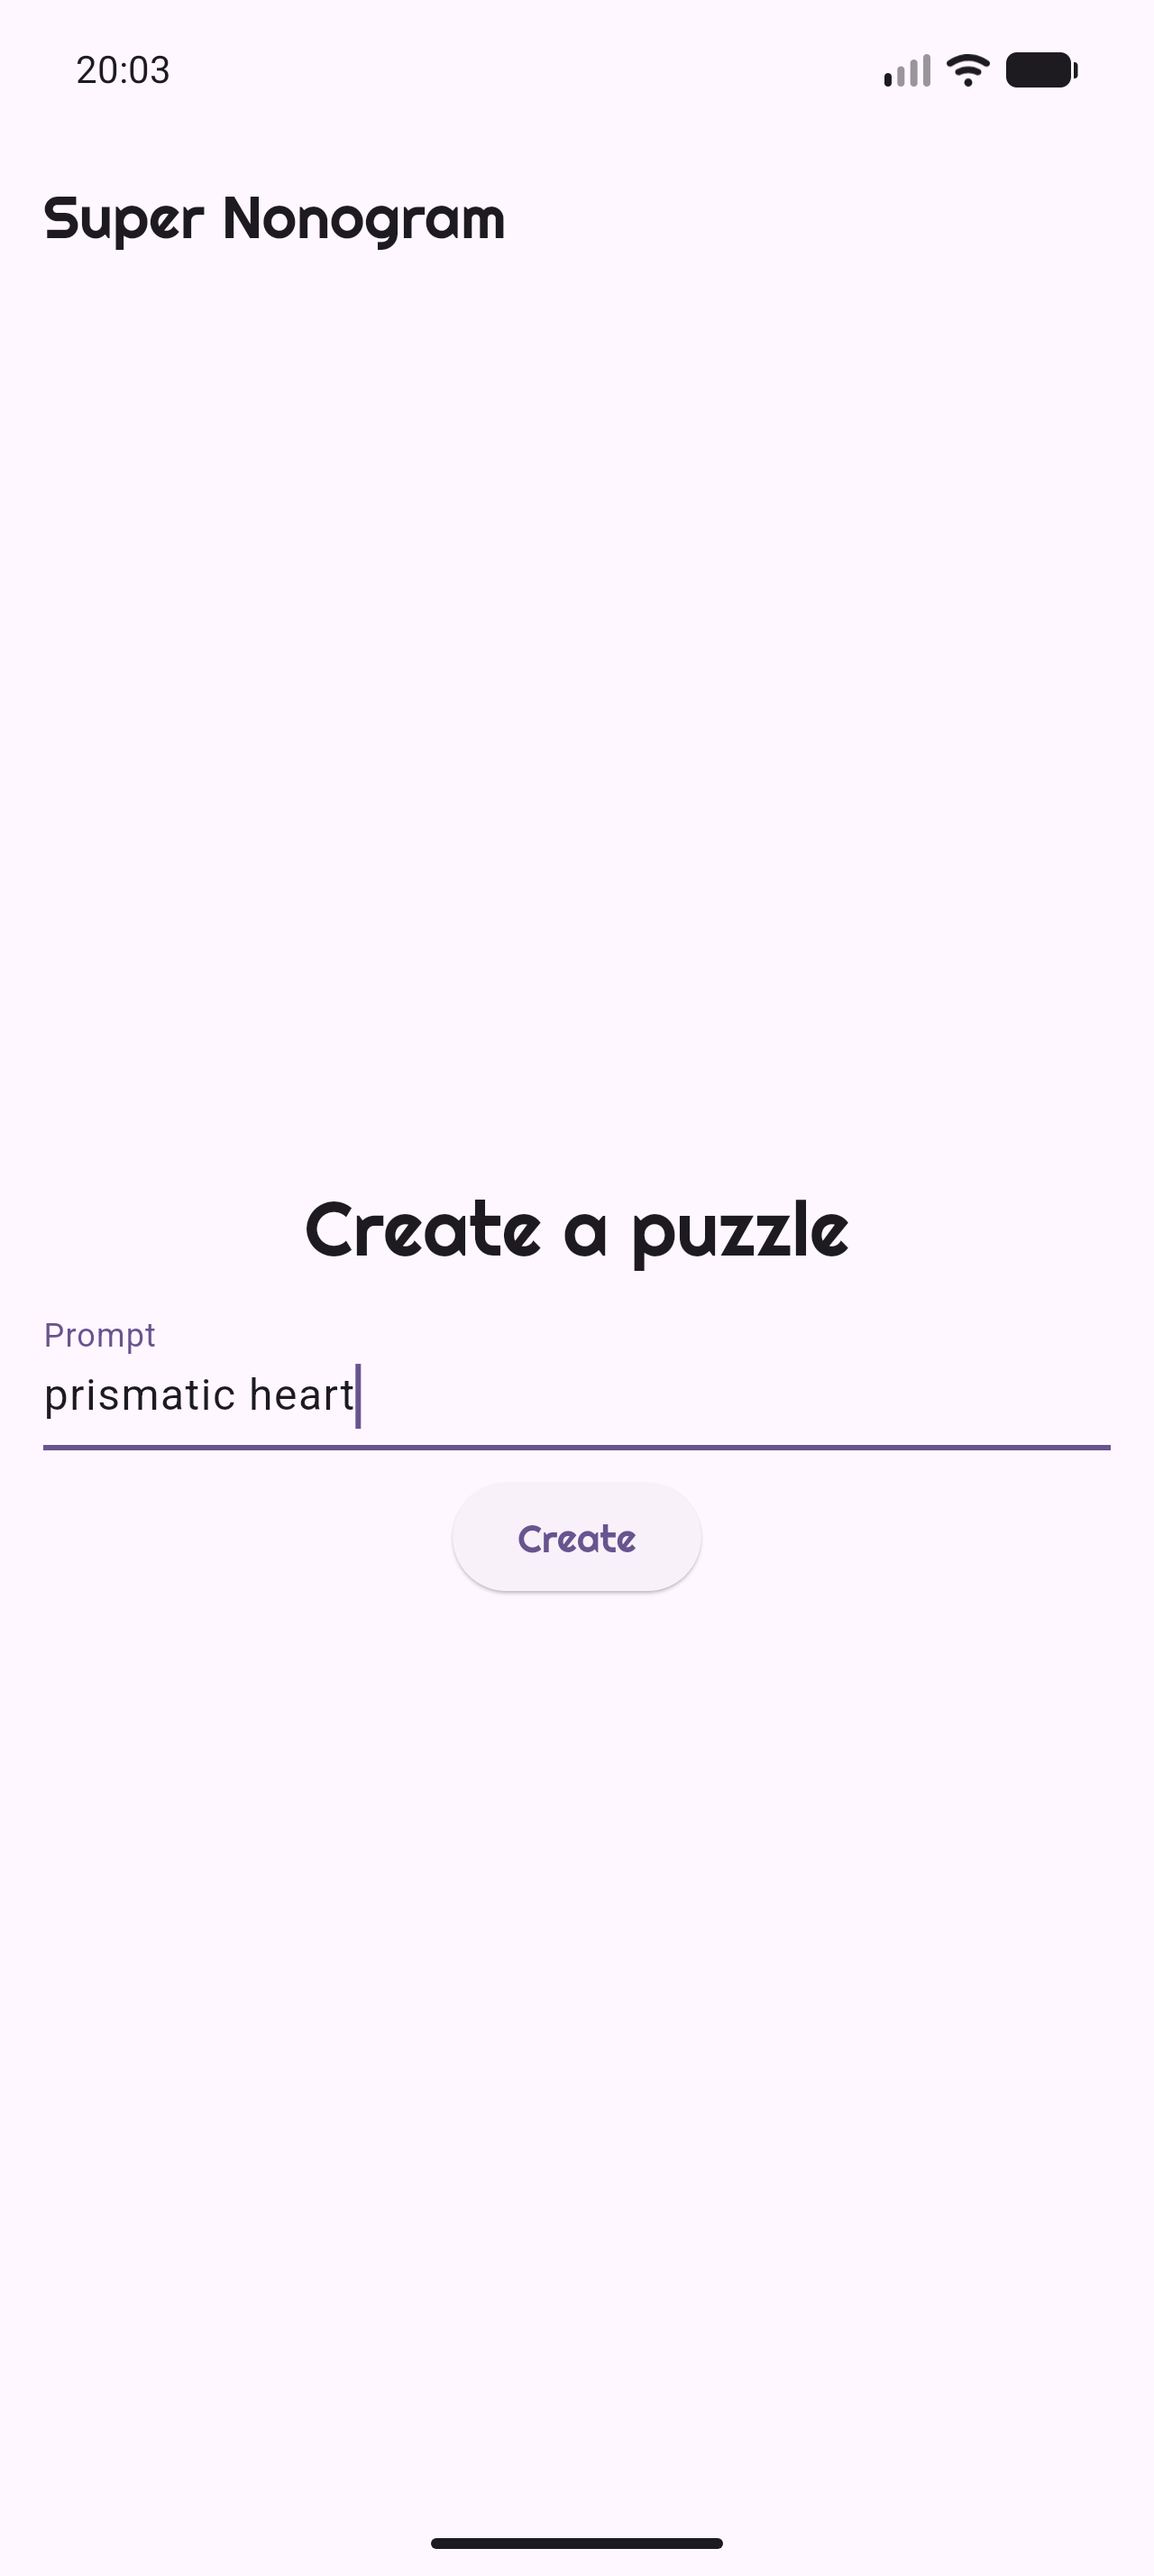
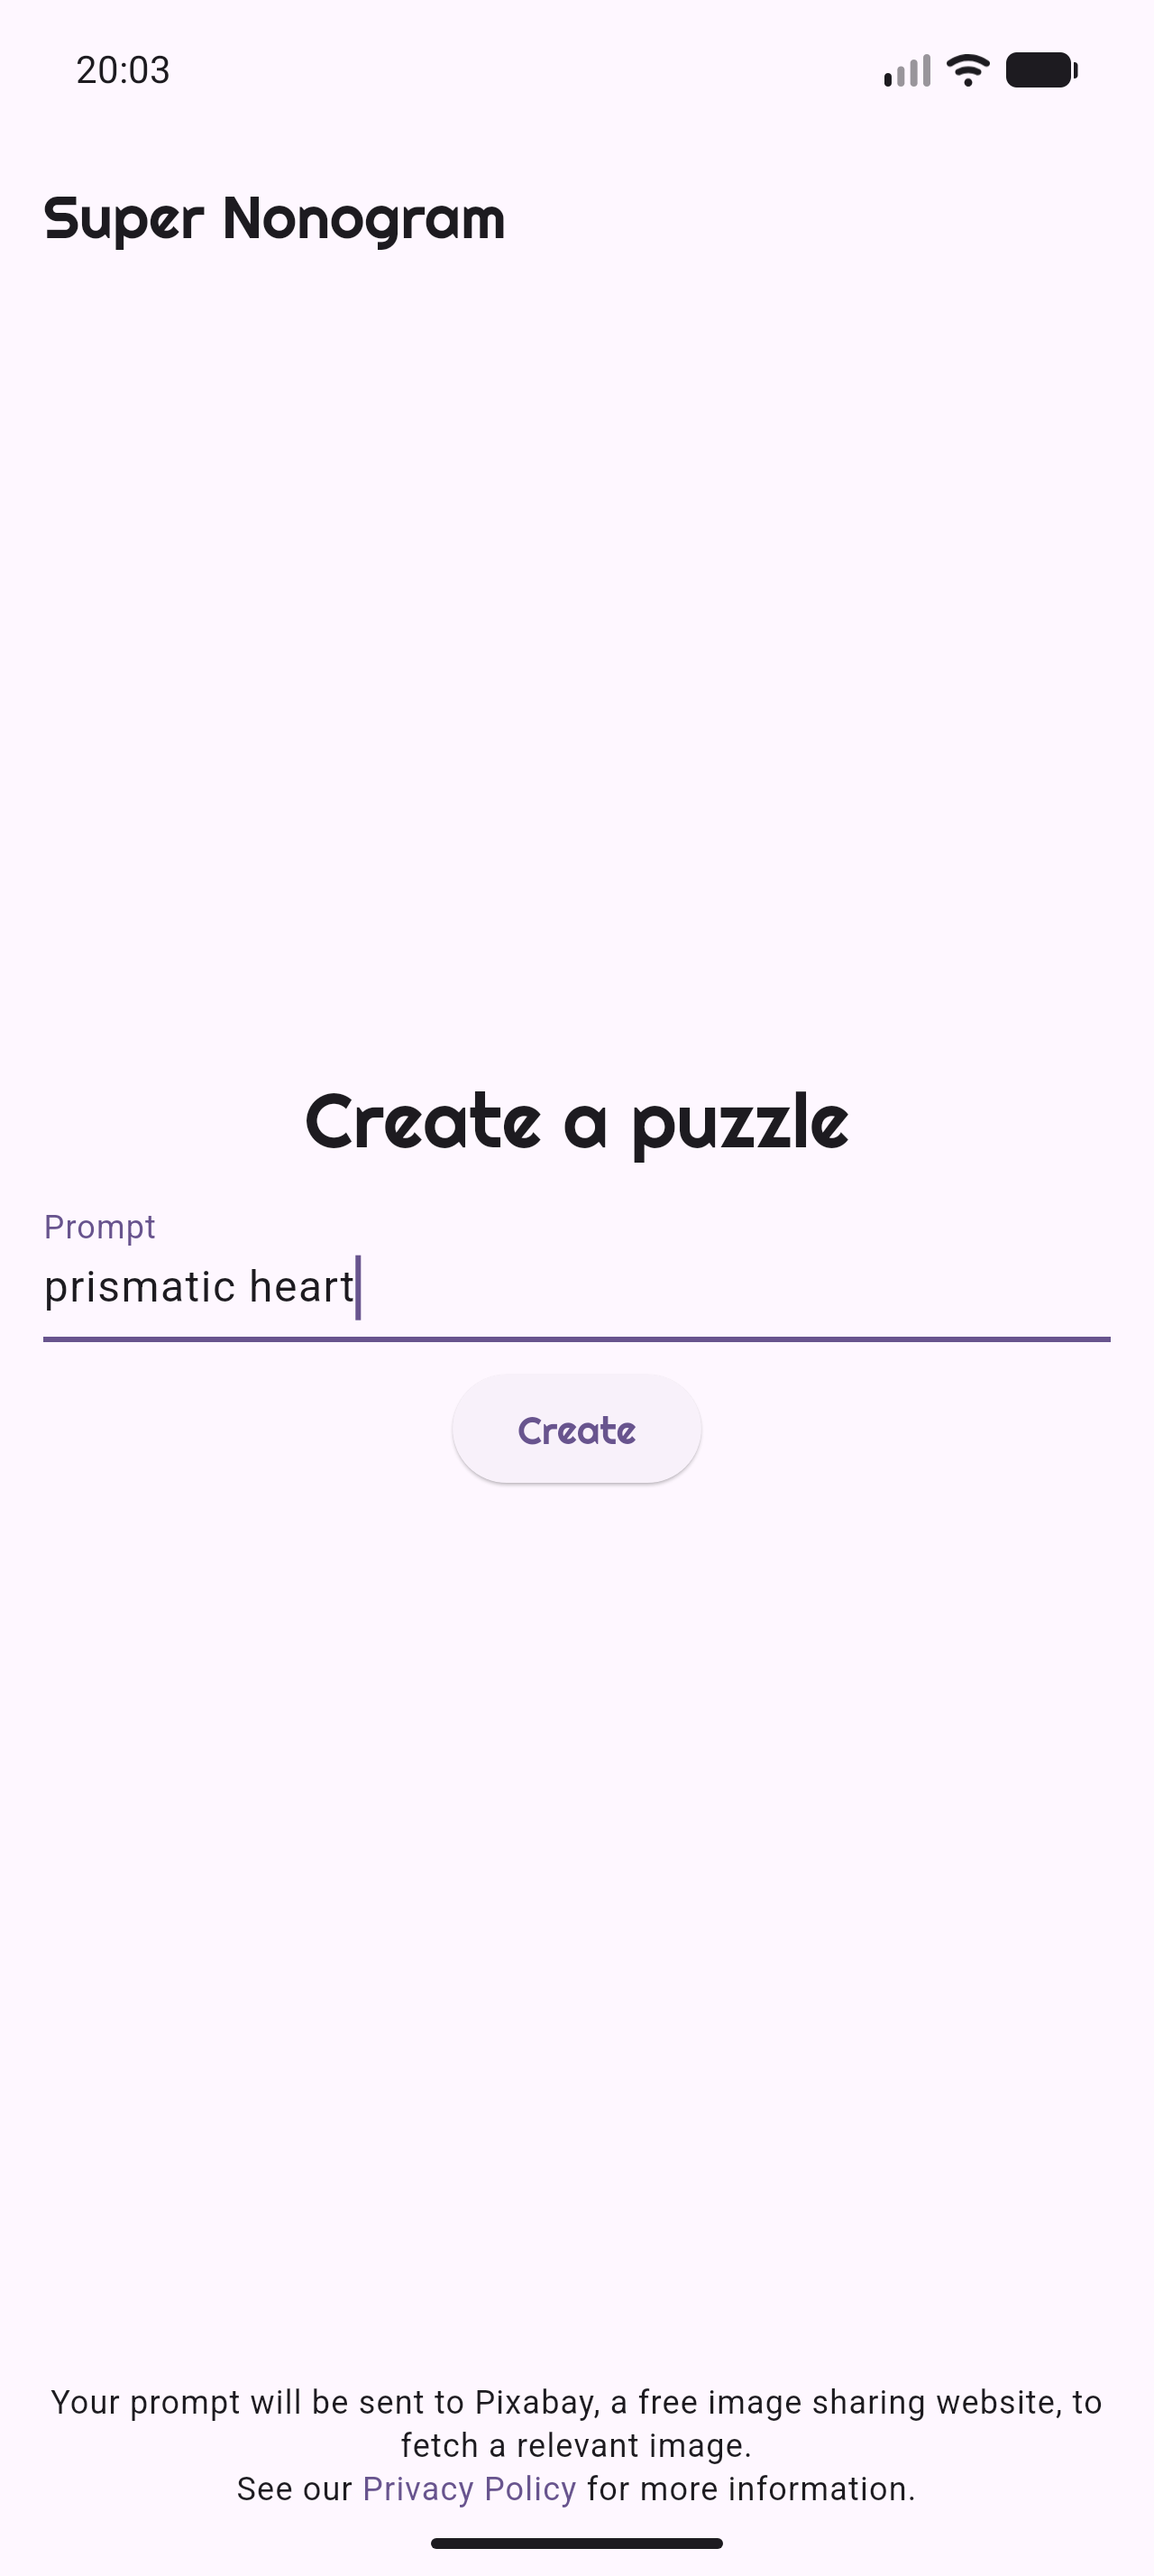
feat: display privacy info on search page

diff --git a/lib/pages/search_page.dart b/lib/pages/search_page.dart
@@ -1,11 +1,13 @@
 import 'dart:convert';
 
+import 'package:flutter/gestures.dart';
 import 'package:flutter/material.dart';
 import 'package:go_router/go_router.dart';
 import 'package:super_nonogram/api/api.dart';
 import 'package:super_nonogram/api/file_manager.dart';
 import 'package:super_nonogram/board/ngb.dart';
 import 'package:super_nonogram/i18n/strings.g.dart';
+import 'package:url_launcher/url_launcher.dart';
 
 class SearchPage extends StatefulWidget {
   const SearchPage({
@@ -26,6 +28,11 @@ class _SearchPageState extends State<SearchPage> {
   bool _disableInput = false;
 
   bool _failedSearch = false;
+
+  static final _privacyPolicyUri = Uri.parse(
+    'https://supernonogram.adil.hanney.org/privacy_policy.html',
+  );
+  static const _contentWidth = 600.0;
 
   void _createPuzzle() async {
     if (_disableInput) return;
@@ -76,10 +83,10 @@ class _SearchPageState extends State<SearchPage> {
     return Scaffold(
       appBar: AppBar(title: Text(t.title.appName)),
       body: Center(
-        child: ConstrainedBox(
-          constraints: const BoxConstraints(maxWidth: 600),
-          child: Padding(
-            padding: const EdgeInsets.all(16),
+        child: SingleChildScrollView(
+          padding: const .all(16),
+          child: ConstrainedBox(
+            constraints: const BoxConstraints(maxWidth: _contentWidth),
             child: Column(
               mainAxisAlignment: MainAxisAlignment.center,
               crossAxisAlignment: CrossAxisAlignment.center,
@@ -116,6 +123,33 @@ class _SearchPageState extends State<SearchPage> {
                 const SizedBox(height: 32),
                 if (widget.showPreviousPuzzles) const PreviousPuzzles(),
               ],
+            ),
+          ),
+        ),
+      ),
+      bottomNavigationBar: Material(
+        color: colorScheme.surface,
+        child: SafeArea(
+          minimum: const .symmetric(horizontal: 16, vertical: 8),
+          child: SizedBox(
+            width: _contentWidth,
+            child: RichText(
+              textAlign: .center,
+              text: TextSpan(
+                style: textTheme.bodySmall,
+                children: [
+                  t.search.privacyInformation(
+                    link: (text) => TextSpan(
+                      text: text,
+                      style: TextStyle(color: colorScheme.primary),
+                      recognizer: TapGestureRecognizer()
+                        ..onTap = () {
+                          launchUrl(_privacyPolicyUri);
+                        },
+                    ),
+                  ),
+                ],
+              ),
             ),
           ),
         ),

diff --git a/lib/i18n/strings_en.g.dart b/lib/i18n/strings_en.g.dart
@@ -88,6 +88,13 @@ class TranslationsSearchEn {
 
 	/// en: 'Create'
 	String get create => 'Create';
+
+	/// en: 'Your prompt will be sent to Pixabay, a free image sharing website, to fetch a relevant image. See our ${link(Privacy Policy)} for more information.'
+	TextSpan privacyInformation({required InlineSpanBuilder link}) => TextSpan(children: [
+		const TextSpan(text: 'Your prompt will be sent to Pixabay, a free image sharing website, to fetch a relevant image.\nSee our '),
+		link('Privacy Policy'),
+		const TextSpan(text: ' for more information.'),
+	]);
 }
 
 // Path: play
